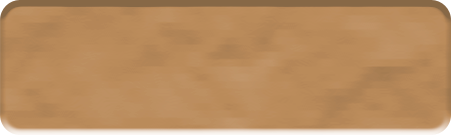
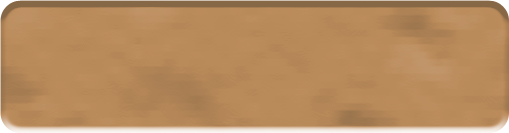
Updated with latest graphics from travis.

diff --git a/core/src/main/java/com/captstudios/games/tafl/core/consts/Assets.java b/core/src/main/java/com/captstudios/games/tafl/core/consts/Assets.java
@@ -31,20 +31,19 @@ public class Assets extends GameAssetLoader {
         public static final String START = "tafl-main-text-start";
         public static final String RESUME = "tafl-main-text-resume";
         public static final String HELP = "tafl-main-text-help";
-        public static final String ABOUT = "tafl-menu-settings-text-about";
 
         public static final String NOVICE = "tafl-menu-settings-text-novice";
         public static final String BEGINNER = "tafl-menu-settings-text-beginner";
         public static final String INTERMEDIATE = "tafl-menu-settings-text-intermediate";
         public static final String ADVANCED = "tafl-menu-settings-text-advance";
 
-        public static final String DIFFICULTY = "tafl-menu-settings-text-difficulty";
+        public static final String LEVEL = "tafl-main-text-level";
+        //public static final String DIFFICULTY = "tafl-menu-settings-text-difficulty";
         public static final String MUSIC = "tafl-menu-settings-text-music";
 
         public static final String OFF = "tafl-menu-settings-text-off";
         public static final String ON = "tafl-menu-settings-text-on";
 
-        public static final String PLAY = "tafl-menu-start-text-play";
         public static final String PLAY_AS = "tafl-menu-start-text-playas";
         public static final String PLAY_BLACK = "tafl-menu-start-text-red";
         public static final String PLAY_WHITE = "tafl-menu-start-text-white";
@@ -87,8 +86,8 @@ public class Assets extends GameAssetLoader {
         public static final String BLACK_PIECE_CAPTURE = "tafl-piece-dark-capture";
     }
 
-    public static final class Background {
-        private Background() {
+    public static final class Backgrounds {
+        private Backgrounds() {
         }
 
         public static final String BOARD = "tafl-board";
@@ -102,8 +101,8 @@ public class Assets extends GameAssetLoader {
         public static final String INSTRUCTIONS_4 = "tafl-instr-screen04";
     }
 
-    public static final class Decoration {
-        private Decoration() {
+    public static final class Decorations {
+        private Decorations() {
         }
 
         public static final String BRAID = "tafl-braid-bottom";
@@ -111,8 +110,8 @@ public class Assets extends GameAssetLoader {
         //public static final String HALF_BRAID = "";
     }
 
-    public static final class Icon {
-        private Icon() {
+    public static final class Icons {
+        private Icons() {
         }
 
         public static final String BLACK = "tafl-piece-dark-icon";
@@ -126,6 +125,8 @@ public class Assets extends GameAssetLoader {
         public static final String HINT = "tafl-menu-icon-hint";
         public static final String SETTINGS = "tafl-menu-icon-settings";
         public static final String BACK = "tafl-menu-icon-back";
+        public static final String PLAY = "tafl-menu-icon-play";
+        public static final String ABOUT = "tafl-menu-icon-about";
     }
 
     public static final class Skin {

diff --git a/core/src/main/java/com/captstudios/games/tafl/core/es/HudFactory.java b/core/src/main/java/com/captstudios/games/tafl/core/es/HudFactory.java
@@ -255,7 +255,7 @@ public class HudFactory {
         }
 
         Image blackIcon = new Image(gameWorld.game.graphicsService.getSprite(
-                Assets.GraphicFiles.ATLAS_PIECES, Assets.Icon.BLACK));
+                Assets.GraphicFiles.ATLAS_PIECES, Assets.Icons.BLACK));
 
         Label blackLabel = new Label(blackText, skin, Assets.Skin.SKIN_STYLE_PLAYER_TAG);
 
@@ -265,7 +265,7 @@ public class HudFactory {
         innerTable.add(blackLabel).left().expandX();
 
         Image whiteIcon = new Image(gameWorld.game.graphicsService.getSprite(
-                Assets.GraphicFiles.ATLAS_PIECES, Assets.Icon.WHITE));
+                Assets.GraphicFiles.ATLAS_PIECES, Assets.Icons.WHITE));
 
         Label whiteLabel = new Label(whiteText, skin, Assets.Skin.SKIN_STYLE_PLAYER_TAG);
 
@@ -285,7 +285,7 @@ public class HudFactory {
 
         TextureRegion textureRegion = new TextureRegion(
                 gameWorld.game.graphicsService.getSprite(
-                        Assets.GraphicFiles.ATLAS_PIECES, Assets.Icon.UNDO));
+                        Assets.GraphicFiles.ATLAS_PIECES, Assets.Icons.UNDO));
         Drawable imageUp = new TextureRegionDrawable(textureRegion);
         ImageButton button = new ImageButton(imageUp);
 
@@ -306,7 +306,7 @@ public class HudFactory {
 
         TextureRegion textureRegion = new TextureRegion(
                 gameWorld.game.graphicsService.getSprite(
-                        Assets.GraphicFiles.ATLAS_PIECES, Assets.Icon.HINT));
+                        Assets.GraphicFiles.ATLAS_PIECES, Assets.Icons.HINT));
         Drawable imageUp = new TextureRegionDrawable(textureRegion);
         ImageButton button = new ImageButton(imageUp);
 
@@ -325,13 +325,13 @@ public class HudFactory {
 
         TextureRegion textureRegion = new TextureRegion(
                 gameWorld.game.graphicsService.getSprite(
-                        Assets.GraphicFiles.ATLAS_PIECES, Assets.Icon.MUTE));
+                        Assets.GraphicFiles.ATLAS_PIECES, Assets.Icons.MUTE));
 
         final Drawable muteDrawable = new TextureRegionDrawable(textureRegion);
 
         textureRegion = new TextureRegion(
                 gameWorld.game.graphicsService.getSprite(
-                        Assets.GraphicFiles.ATLAS_PIECES, Assets.Icon.UN_MUTE));
+                        Assets.GraphicFiles.ATLAS_PIECES, Assets.Icons.UN_MUTE));
 
         final Drawable unmuteDrawable = new TextureRegionDrawable(textureRegion);
 
@@ -364,7 +364,7 @@ public class HudFactory {
 
         TextureRegion textureRegion = new TextureRegion(
                 gameWorld.game.graphicsService.getSprite(
-                        Assets.GraphicFiles.ATLAS_PIECES, Assets.Icon.MENU));
+                        Assets.GraphicFiles.ATLAS_PIECES, Assets.Icons.MENU));
         Drawable imageUp = new TextureRegionDrawable(textureRegion);
         ImageButton button = new ImageButton(imageUp);
 

diff --git a/core/src/main/java/com/captstudios/games/tafl/core/screen/SettingsScreen.java b/core/src/main/java/com/captstudios/games/tafl/core/screen/SettingsScreen.java
@@ -30,7 +30,7 @@ public class SettingsScreen extends AbstractScreen<TaflGame> {
     @Override
     public void initialize() {
         Sprite background = game.graphicsService.getSprite(
-                Assets.GraphicFiles.ATLAS_BACKGROUNDS, Assets.Background.MENU);
+                Assets.GraphicFiles.ATLAS_BACKGROUNDS, Assets.Backgrounds.MENU);
         setBackgroundImage(new Image(background));
 
         Table table = new Table();
@@ -53,7 +53,7 @@ public class SettingsScreen extends AbstractScreen<TaflGame> {
         Table buttonTable = new Table();
         buttonTable.right().bottom().setFillParent(true);
         buttonTable.defaults().pad(game.deviceSettings.menuSpacing).size(game.deviceSettings.menuButtonHeight);
-        Sprite icon = game.graphicsService.getSprite(Assets.GraphicFiles.ATLAS_PIECES, Assets.Icon.BACK);
+        Sprite icon = game.graphicsService.getSprite(Assets.GraphicFiles.ATLAS_PIECES, Assets.Icons.BACK);
         Button button = new ImageButton(new TextureRegionDrawable(new TextureRegion(icon)));
 
         button.addListener(new ChangeListener() {
@@ -66,7 +66,7 @@ public class SettingsScreen extends AbstractScreen<TaflGame> {
         buttonTable.add(button).expandX().left();
 
         buttonTable.right().bottom().setFillParent(true);
-        icon = game.graphicsService.getSprite(Assets.GraphicFiles.ATLAS_PIECES, Assets.TextGraphics.ABOUT);
+        icon = game.graphicsService.getSprite(Assets.GraphicFiles.ATLAS_PIECES, Assets.Icons.ABOUT);
         button = game.createSwitchScreenButton(icon, this, game.aboutScreen);
         buttonTable.add(button);
 
@@ -118,10 +118,10 @@ public class SettingsScreen extends AbstractScreen<TaflGame> {
 
     private void createDifficultySelector(Table table) {
         Sprite labelSprite = game.graphicsService.getSprite(
-                Assets.GraphicFiles.ATLAS_PIECES, Assets.TextGraphics.DIFFICULTY);
+                Assets.GraphicFiles.ATLAS_PIECES, Assets.TextGraphics.LEVEL);
         Image difficultyImageLabel = new Image(new TextureRegionDrawable(new TextureRegion(labelSprite)));
 
-        float height = game.deviceSettings.menuLabelHeight * 1.5f;
+        float height = game.deviceSettings.menuLabelHeight;
         float width = height * (difficultyImageLabel.getWidth() / difficultyImageLabel.getHeight());
 
         table.add(difficultyImageLabel).spaceBottom(game.deviceSettings.menuSpacing).size(width, height).expandX().right();

diff --git a/core/src/main/java/com/captstudios/games/tafl/core/screen/LevelSelectionScreen.java b/core/src/main/java/com/captstudios/games/tafl/core/screen/LevelSelectionScreen.java
@@ -35,7 +35,7 @@ public class LevelSelectionScreen extends AbstractScreen<TaflGame> {
     @Override
     public void initialize() {
         Sprite background = game.graphicsService.getSprite(
-                Assets.GraphicFiles.ATLAS_BACKGROUNDS, Assets.Background.MENU);
+                Assets.GraphicFiles.ATLAS_BACKGROUNDS, Assets.Backgrounds.MENU);
         setBackgroundImage(new Image(background));
 
         Table table = new Table();
@@ -55,10 +55,10 @@ public class LevelSelectionScreen extends AbstractScreen<TaflGame> {
 
     private void createDifficultySelector(Table table) {
         Sprite labelSprite = game.graphicsService.getSprite(
-                Assets.GraphicFiles.ATLAS_PIECES, Assets.TextGraphics.DIFFICULTY);
+                Assets.GraphicFiles.ATLAS_PIECES, Assets.TextGraphics.LEVEL);
         Image difficultyImageLabel = new Image(new TextureRegionDrawable(new TextureRegion(labelSprite)));
 
-        float height = game.deviceSettings.menuLabelHeight * 1.5f;
+        float height = game.deviceSettings.menuLabelHeight;
         float width = height * (difficultyImageLabel.getWidth() / difficultyImageLabel.getHeight());
 
         table.add(difficultyImageLabel).spaceBottom(game.deviceSettings.menuSpacing).size(width, height).expandX().right();
@@ -164,11 +164,11 @@ public class LevelSelectionScreen extends AbstractScreen<TaflGame> {
         buttonTable.right().bottom().setFillParent(true);
         buttonTable.defaults().pad(game.deviceSettings.menuSpacing).size(game.deviceSettings.menuButtonHeight);
 
-        Sprite icon = game.graphicsService.getSprite(Assets.GraphicFiles.ATLAS_PIECES, Assets.Icon.BACK);
+        Sprite icon = game.graphicsService.getSprite(Assets.GraphicFiles.ATLAS_PIECES, Assets.Icons.BACK);
         Button button = game.createSwitchScreenButton(icon, this, game.mainMenuScreen);
         buttonTable.add(button).expandX().left();
 
-        icon = game.graphicsService.getSprite(Assets.GraphicFiles.ATLAS_PIECES, Assets.TextGraphics.PLAY);
+        icon = game.graphicsService.getSprite(Assets.GraphicFiles.ATLAS_PIECES, Assets.Icons.PLAY);
         button = new ImageButton(new TextureRegionDrawable(new TextureRegion(icon)));
         button.addListener(new ChangeListener() {
             @Override

diff --git a/core/src/main/java/com/captstudios/games/tafl/core/screen/InstructionScreen.java b/core/src/main/java/com/captstudios/games/tafl/core/screen/InstructionScreen.java
@@ -96,7 +96,7 @@ public class InstructionScreen extends AbstractScreen<TaflGame> {
     private void initControls() {
         TextureRegion textureRegion = new TextureRegion(
                 game.graphicsService.getSprite(
-                        Assets.GraphicFiles.ATLAS_PIECES, Assets.Icon.CLOSE));
+                        Assets.GraphicFiles.ATLAS_PIECES, Assets.Icons.CLOSE));
         Drawable imageUp = new TextureRegionDrawable(textureRegion);
         closeButton = new ImageButton(imageUp);
         closeButton.addListener(new ChangeListener() {
@@ -117,10 +117,10 @@ public class InstructionScreen extends AbstractScreen<TaflGame> {
 
     private void initInstructions() {
         instructions = new Image[] {
-                new Image(game.graphicsService.getSprite(Assets.GraphicFiles.ATLAS_BACKGROUNDS, Assets.Background.INSTRUCTIONS_1)),
-                new Image(game.graphicsService.getSprite(Assets.GraphicFiles.ATLAS_BACKGROUNDS, Assets.Background.INSTRUCTIONS_2)),
-                new Image(game.graphicsService.getSprite(Assets.GraphicFiles.ATLAS_BACKGROUNDS, Assets.Background.INSTRUCTIONS_3)),
-                new Image(game.graphicsService.getSprite(Assets.GraphicFiles.ATLAS_BACKGROUNDS, Assets.Background.INSTRUCTIONS_4)),
+                new Image(game.graphicsService.getSprite(Assets.GraphicFiles.ATLAS_BACKGROUNDS, Assets.Backgrounds.INSTRUCTIONS_1)),
+                new Image(game.graphicsService.getSprite(Assets.GraphicFiles.ATLAS_BACKGROUNDS, Assets.Backgrounds.INSTRUCTIONS_2)),
+                new Image(game.graphicsService.getSprite(Assets.GraphicFiles.ATLAS_BACKGROUNDS, Assets.Backgrounds.INSTRUCTIONS_3)),
+                new Image(game.graphicsService.getSprite(Assets.GraphicFiles.ATLAS_BACKGROUNDS, Assets.Backgrounds.INSTRUCTIONS_4)),
         };
 
         for (Image instruction : instructions) {

diff --git a/core/src/main/java/com/captstudios/games/tafl/core/screen/MainMenuScreen.java b/core/src/main/java/com/captstudios/games/tafl/core/screen/MainMenuScreen.java
@@ -25,7 +25,7 @@ public class MainMenuScreen extends AbstractScreen<TaflGame> {
     @Override
     public void initialize() {
         Sprite background = game.graphicsService.getSprite(
-                Assets.GraphicFiles.ATLAS_BACKGROUNDS, Assets.Background.MENU);
+                Assets.GraphicFiles.ATLAS_BACKGROUNDS, Assets.Backgrounds.MENU);
         setBackgroundImage(new Image(background));
 
         Skin skin = game.graphicsService.getSkin(Assets.Skin.UI_SKIN);
@@ -61,7 +61,7 @@ public class MainMenuScreen extends AbstractScreen<TaflGame> {
 
         Table iconTable = new Table(skin);
         iconTable.right().bottom().setFillParent(true);
-        Sprite settingsIcon = game.graphicsService.getSprite(Assets.GraphicFiles.ATLAS_PIECES, Assets.Icon.SETTINGS);
+        Sprite settingsIcon = game.graphicsService.getSprite(Assets.GraphicFiles.ATLAS_PIECES, Assets.Icons.SETTINGS);
         button = game.createSwitchScreenButton(settingsIcon, this, game.settingsScreen);
         iconTable.add(button).pad(game.deviceSettings.menuSpacing).size(
                 game.deviceSettings.menuButtonHeight, game.deviceSettings.menuButtonHeight);

diff --git a/core/src/main/java/com/captstudios/games/tafl/core/screen/AboutScreen.java b/core/src/main/java/com/captstudios/games/tafl/core/screen/AboutScreen.java
@@ -31,7 +31,7 @@ public class AboutScreen extends AbstractScreen<TaflGame> {
     @Override
     public void initialize() {
         Sprite background = game.graphicsService.getSprite(
-                Assets.GraphicFiles.ATLAS_BACKGROUNDS, Assets.Background.MENU);
+                Assets.GraphicFiles.ATLAS_BACKGROUNDS, Assets.Backgrounds.MENU);
         setBackgroundImage(new Image(background));
 
         Table table = new Table();
@@ -124,7 +124,7 @@ public class AboutScreen extends AbstractScreen<TaflGame> {
     private void initControls() {
         TextureRegion textureRegion = new TextureRegion(
                 game.graphicsService.getSprite(
-                        Assets.GraphicFiles.ATLAS_PIECES, Assets.Icon.CLOSE));
+                        Assets.GraphicFiles.ATLAS_PIECES, Assets.Icons.CLOSE));
         Drawable imageUp = new TextureRegionDrawable(textureRegion);
         ImageButton closeButton = new ImageButton(imageUp);
         closeButton.addListener(new ChangeListener() {

diff --git a/core/src/main/java/com/captstudios/games/tafl/core/es/systems/passive/ComponentFactorySystem.java b/core/src/main/java/com/captstudios/games/tafl/core/es/systems/passive/ComponentFactorySystem.java
@@ -108,12 +108,12 @@ public class ComponentFactorySystem extends PassiveEntitySystem {
         component.debugFont = graphics.getFont(ds.rulesFont);
 
         component.backgroundTexture = graphics.getSprite(
-                Assets.GraphicFiles.ATLAS_BACKGROUNDS, Assets.Background.BOARD);
+                Assets.GraphicFiles.ATLAS_BACKGROUNDS, Assets.Backgrounds.BOARD);
         component.gridTexture = graphics.getSprite(
                 Assets.GraphicFiles.ATLAS_PIECES, match.board.boardType.grid);
 
         if (!world.game.deviceSettings.isIpad()) {
-            component.braid = graphics.getSprite(Assets.GraphicFiles.ATLAS_PIECES, Assets.Decoration.BRAID);
+            component.braid = graphics.getSprite(Assets.GraphicFiles.ATLAS_PIECES, Assets.Decorations.BRAID);
         }
 
         return component;

diff --git a/core/src/main/java/com/captstudios/games/tafl/core/consts/Constants.java b/core/src/main/java/com/captstudios/games/tafl/core/consts/Constants.java
@@ -33,8 +33,8 @@ public final class Constants {
         public static final int TUICHI_THRESHHOLD = 2;
 
         public static final int GAME_DESKTOP_HEIGHT = 800;
-        public static final int GAME_DESKTOP_WIDTH = 600; // 1.33 - iPad
-        //        public static final int GAME_DESKTOP_WIDTH = 500; // 1.6 - Android
+        //        public static final int GAME_DESKTOP_WIDTH = 600; // 1.33 - iPad
+        public static final int GAME_DESKTOP_WIDTH = 500; // 1.6 - Android
         //        public static final int GAME_DESKTOP_WIDTH = 450; // 1.78 - iPhone
 
         public static final int GAME_HTML_HEIGHT = 400;

diff --git a/core/src/main/java/com/captstudios/games/tafl/core/utils/DoubleTextureDrawable.java b/core/src/main/java/com/captstudios/games/tafl/core/utils/DoubleTextureDrawable.java
@@ -19,6 +19,10 @@ public class DoubleTextureDrawable extends TextureRegionDrawable {
 
         float innerWidth = inner.getRegionWidth() * width / getMinWidth();
         float innerHeight = inner.getRegionHeight() * height / getMinHeight();
+        if (inner.getRegionWidth() / getMinWidth() > 0.9) {
+            innerWidth *= 0.9f;
+            innerHeight *= 0.9f;
+        }
 
         float innerX = x + (width - innerWidth) / 2;
         float innerY = y + (height - innerHeight) / 2;

diff --git a/core/src/main/java/com/captstudios/games/tafl/core/screen/TaflCompanyScreen.java b/core/src/main/java/com/captstudios/games/tafl/core/screen/TaflCompanyScreen.java
@@ -16,7 +16,7 @@ public class TaflCompanyScreen extends LoadingScreen<TaflGame> {
         super(game,
                 null,
                 nextScreen,
-                new Image(atlas.createSprite(Assets.Background.COMPANY_LOGO)),
+                new Image(atlas.createSprite(Assets.Backgrounds.COMPANY_LOGO)),
                 Constants.ScreenConstants.SPLASH_SCREEN_DISPLAY_TIME,
                 Constants.ScreenConstants.FADE_TIME);
     }

diff --git a/core/src/main/java/com/captstudios/games/tafl/core/screen/TaflLoadingScreen.java b/core/src/main/java/com/captstudios/games/tafl/core/screen/TaflLoadingScreen.java
@@ -21,7 +21,7 @@ public class TaflLoadingScreen extends LoadingScreen<TaflGame> {
         super(game,
                 assetLoader,
                 nextScreen,
-                new Image(atlas.createSprite(Assets.Background.SPLASH)),
+                new Image(atlas.createSprite(Assets.Backgrounds.SPLASH)),
                 Constants.ScreenConstants.SPLASH_SCREEN_DISPLAY_TIME,
                 Constants.ScreenConstants.FADE_TIME);
 
